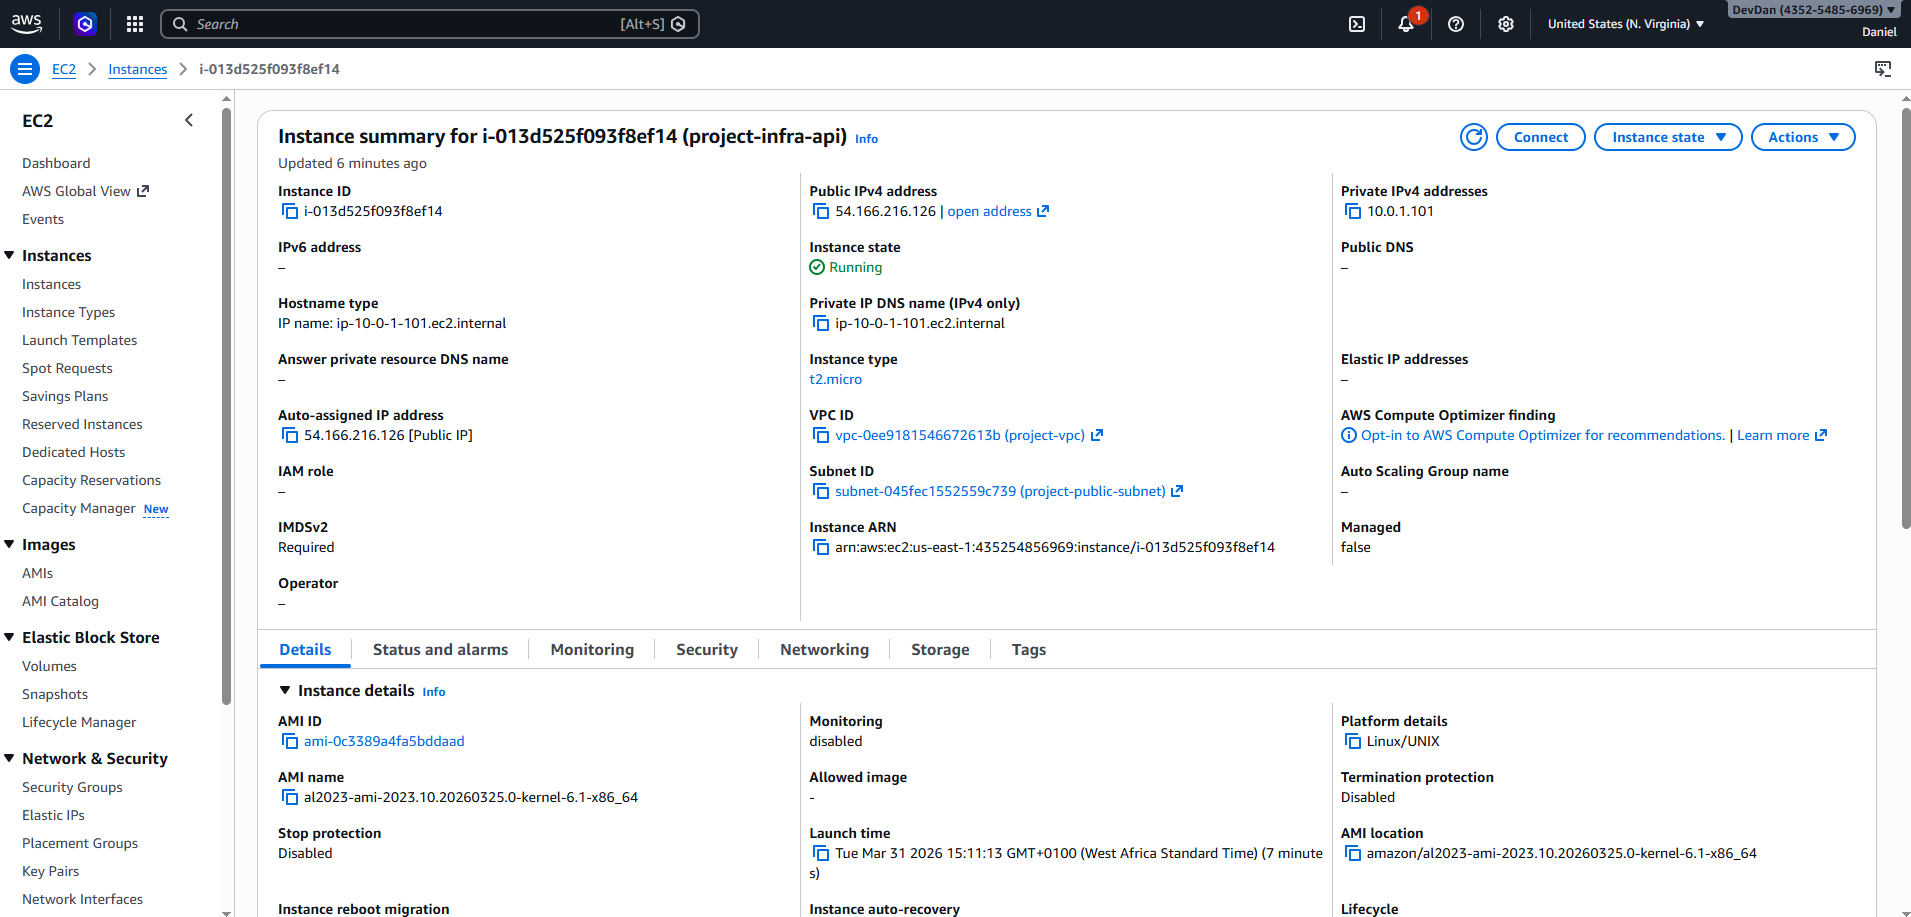
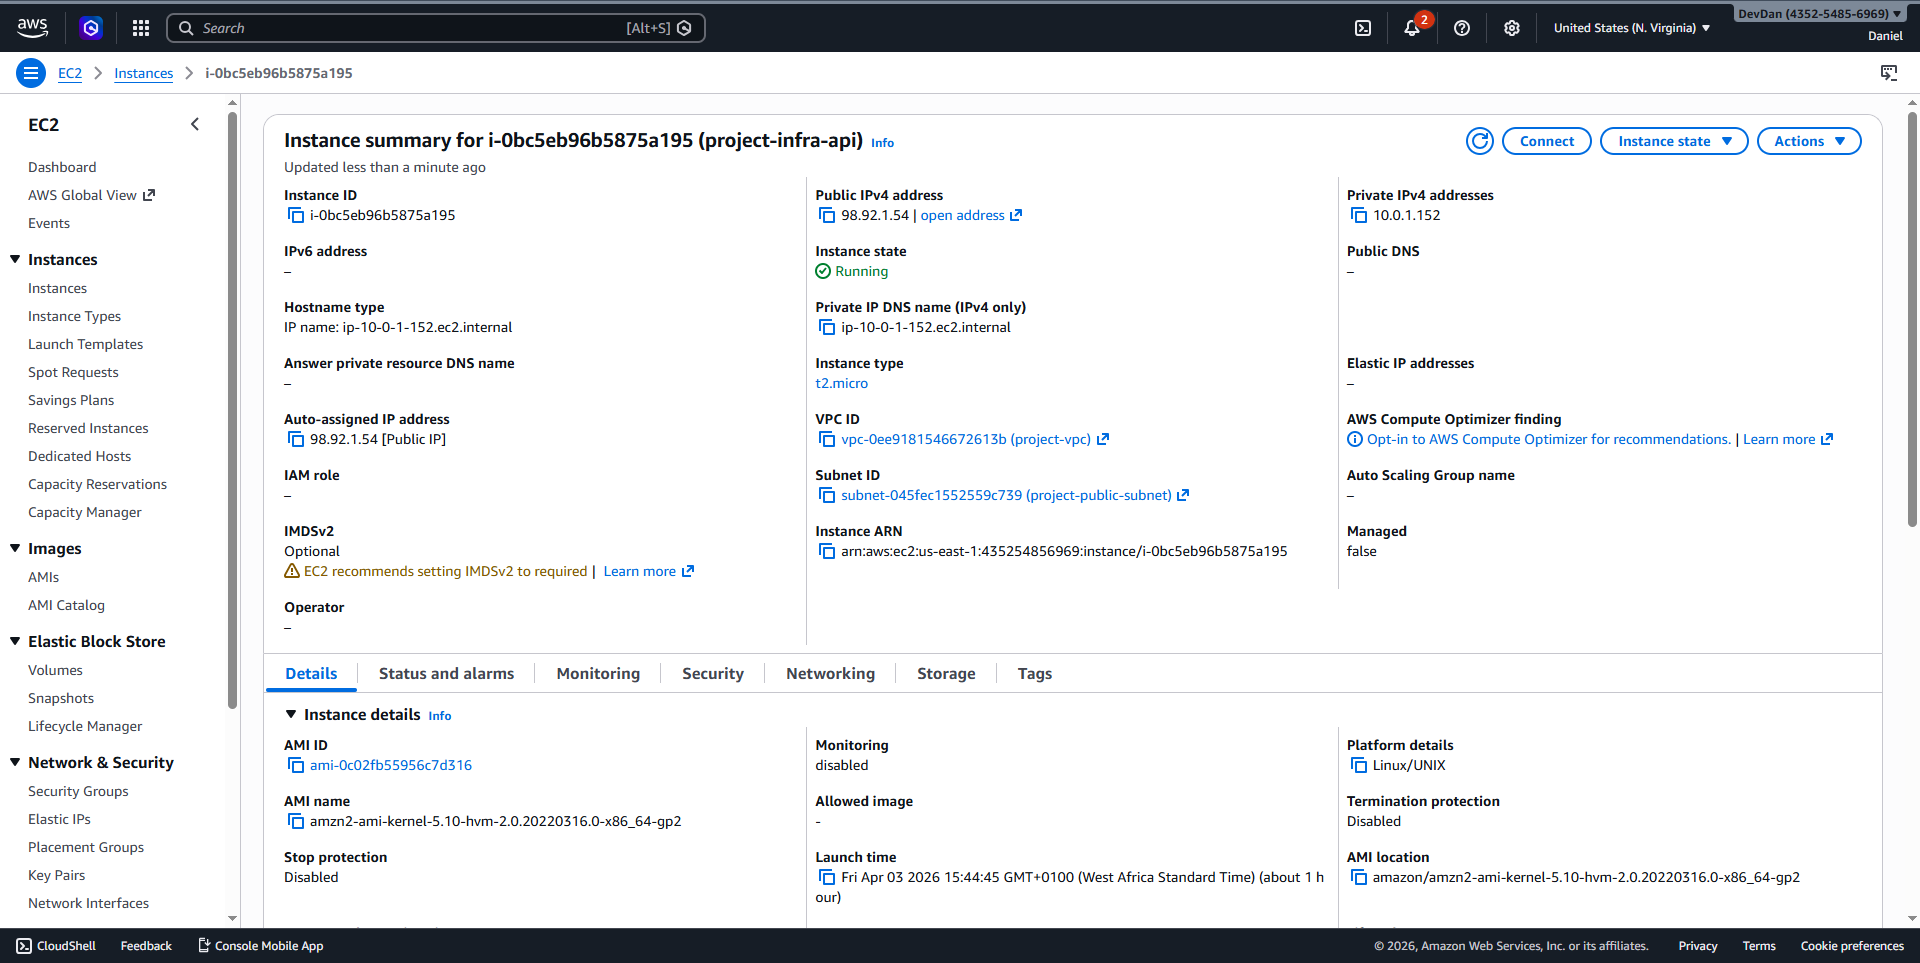
feat: deploy Node.js API to EC2 and verify local connectivity

diff --git a/app/server.js b/app/server.js
@@ -33,6 +33,6 @@ app.use("/", healthRoutes);
 app.use(errorHandler);
 
 // Start server
-app.listen(PORT, () => {
+app.listen(PORT, '0.0.0.0', () => {
   console.log(`Server running on port ${PORT}`);
 });
